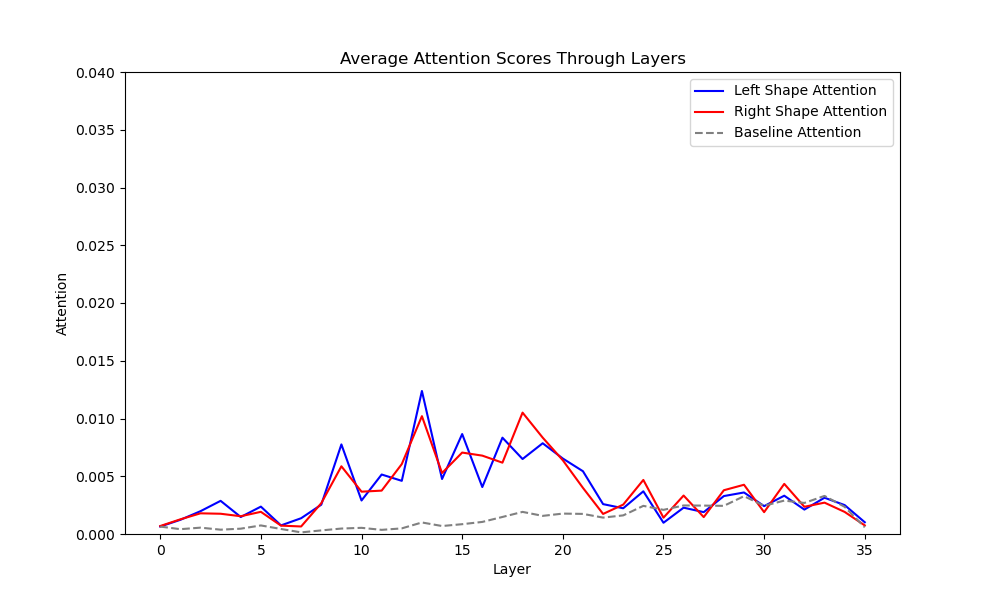
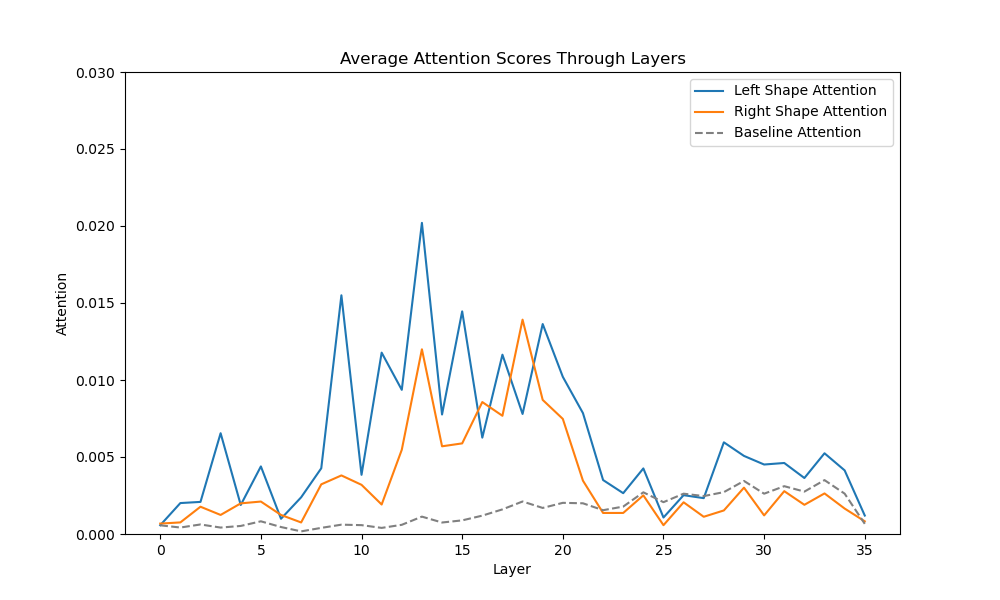
add graph gen files

diff --git a/gen_4_object_graphs.py b/gen_4_object_graphs.py
@@ -1,0 +1,143 @@
+from plotter2 import Plotter
+import numpy as np
+import matplotlib.pyplot as plt
+import torch
+from transformers import AutoProcessor, LlavaForConditionalGeneration, InternVLForConditionalGeneration
+
+def load_model(model_name):
+
+    device = "cuda" if torch.cuda.is_available() else "cpu"
+    global _loaded_models
+    if '_loaded_models' not in globals():
+        _loaded_models = {}
+
+    if model_name == "internvl":
+        model_id = "OpenGVLab/InternVL3_5-4B-HF"
+        if model_id not in _loaded_models:
+            print("Loading model and processor...")
+            processor = AutoProcessor.from_pretrained(model_id)
+            model = InternVLForConditionalGeneration.from_pretrained(
+                model_id, torch_dtype=torch.float16).to(device)
+            _loaded_models[model_id] = (processor, model)
+        else:
+            print("Reusing cached model and processor.")
+            processor, model = _loaded_models[model_id]
+    
+    elif model_name == "llava":
+        model_id = "llava-hf/llava-1.5-7b-hf"
+        if model_id not in _loaded_models:
+            print("Loading model and processor...")
+            processor = AutoProcessor.from_pretrained(model_id)
+            model = LlavaForConditionalGeneration.from_pretrained(
+                model_id, torch_dtype=torch.float16).to(device)
+            _loaded_models[model_id] = (processor, model)
+        else:
+            print("Reusing cached model and processor.")
+            processor, model = _loaded_models[model_id]
+
+    return processor, model
+
+def four_position(model_name, pos, colour=None):
+   
+    processor, model = load_model(model_name)
+
+    count = 0
+    item1_attn = []
+    item2_attn = []
+    item3_attn = []
+    item4_attn = []
+    baseline_attentions = []
+    for i in range(100):
+        image_path = f"4_shapes_same_dataset_1000/images/image_{i:04d}.png"
+        plotter = Plotter(image_path)
+        top_left_colour = plotter.get_shape_by_position('top_left').colour
+        top_right_colour = plotter.get_shape_by_position('top_right').colour
+        bottom_left_colour = plotter.get_shape_by_position('bottom_left').colour
+        bottom_right_colour = plotter.get_shape_by_position('bottom_right').colour
+        plotter.set_model(model, processor)
+
+        if pos == 'top_left' or pos == 'neg_top_left':
+            target_colour = top_left_colour
+        elif pos == 'top_right' or pos == 'neg_top_right':
+            target_colour = top_right_colour
+        elif pos == 'bottom_left' or pos == 'neg_bottom_left':
+            target_colour = bottom_left_colour
+        elif pos == 'bottom_right' or pos == 'neg_bottom_right':
+            target_colour = bottom_right_colour
+       
+
+        if target_colour == colour or colour is None:
+
+            if pos == 'top_left':
+                plotter.get_outputs(f"The figure is {top_left_colour}")
+            elif pos == 'top_right':
+                plotter.get_outputs(f"The figure is {top_right_colour}")
+            elif pos == 'bottom_left':
+                plotter.get_outputs(f"The figure is {bottom_left_colour}")
+            elif pos == 'bottom_right':
+                plotter.get_outputs(f"The figure is {bottom_right_colour}")
+            elif pos == 'neg_top_left':
+                plotter.get_outputs(f"The figure is not {top_left_colour}")
+            elif pos == 'neg_top_right':
+                plotter.get_outputs(f"The figure is not {top_right_colour}")
+            elif pos == 'neg_bottom_left':
+                plotter.get_outputs(f"The figure is not {bottom_left_colour}")
+            elif pos == 'neg_bottom_right':
+                plotter.get_outputs(f"The figure is not {bottom_right_colour}")
+
+            print("outputs:", plotter.print_output())
+            bbox_attentions, baseline_attn = plotter.plot_attention_through_layers()
+            item1_attn.append(bbox_attentions[top_left_colour])
+            item2_attn.append(bbox_attentions[top_right_colour])
+            item3_attn.append(bbox_attentions[bottom_left_colour])
+            item4_attn.append(bbox_attentions[bottom_right_colour])
+            baseline_attentions.append(baseline_attn)
+            count += 1
+
+    print("finished processing images, now plotting averages...")
+
+    # plot average attention across items
+    avg_item1_attn = np.mean(np.array(item1_attn), axis=0)
+    avg_item2_attn = np.mean(np.array(item2_attn), axis=0)
+    avg_item3_attn = np.mean(np.array(item3_attn), axis=0)
+    avg_item4_attn = np.mean(np.array(item4_attn), axis=0)
+    avg_baseline_attn = np.mean(np.array(baseline_attentions), axis=0)
+    std_item1_attn = np.std(np.array(item1_attn), axis=0)
+    std_item2_attn = np.std(np.array(item2_attn), axis=0)
+    layers = list(range(36))
+    plt.figure(figsize=(10, 6))
+    plt.plot(layers, avg_item1_attn, label='Top Left Shape Attention')
+    plt.plot(layers, avg_item2_attn, label='Top Right Shape Attention')
+    plt.plot(layers, avg_item3_attn, label='Bottom Left Shape Attention')
+    plt.plot(layers, avg_item4_attn, label='Bottom Right Shape Attention')
+    plt.plot(layers, avg_baseline_attn, label='Baseline Attention', color='gray', linestyle='--')
+    # plot confidence intervals
+    #plt.fill_between(layers, avg_item1_attn - std_item1_attn, avg_item1_attn + std_item1_attn, color='blue', alpha=0.2)
+    #plt.fill_between(layers, avg_item2_attn - std_item2_attn, avg_item2_attn + std_item2_attn, color='red', alpha=0.2)    
+    plt.xlabel('Layer')
+    plt.ylabel('Attention')
+    plt.title('Average Attention Scores Through Layers')
+    plt.legend()
+    # fix y axis limit
+    plt.ylim(0, 0.03)
+    plt.savefig(f'intern_plots/{pos}_{colour+"_" if colour else ""}all.png')
+    print(f"Processed {count} images matching criteria.")
+
+
+if __name__ == "__main__":
+    four_position('internvl', 'top_left')
+    four_position('internvl', 'top_right')
+    four_position('internvl', 'bottom_left')
+    four_position('internvl', 'bottom_right')
+    four_position('internvl', 'neg_top_left')
+    four_position('internvl', 'neg_top_right')
+    four_position('internvl', 'neg_bottom_left')
+    four_position('internvl', 'neg_bottom_right')
+    # four_position('internvl', 'top_left', 'red')
+    # four_position('internvl', 'top_right', 'red')
+    # four_position('internvl', 'bottom_left', 'red')
+    # four_position('internvl', 'bottom_right', 'red')
+    # four_position('internvl', 'neg_top_left', 'red')
+    # four_position('internvl', 'neg_top_right', 'red')
+    # four_position('internvl', 'neg_bottom_left', 'red')
+    # four_position('internvl', 'neg_bottom_right', 'red')

diff --git a/gen_2_object_graphs.py b/gen_2_object_graphs.py
@@ -1,0 +1,123 @@
+from plotter2 import Plotter
+import numpy as np
+import matplotlib.pyplot as plt
+import torch
+from transformers import AutoProcessor, LlavaForConditionalGeneration, InternVLForConditionalGeneration
+
+def load_model(model_name):
+
+    device = "cuda" if torch.cuda.is_available() else "cpu"
+    global _loaded_models
+    if '_loaded_models' not in globals():
+        _loaded_models = {}
+
+    if model_name == "internvl":
+        model_id = "OpenGVLab/InternVL3_5-4B-HF"
+        if model_id not in _loaded_models:
+            print("Loading model and processor...")
+            processor = AutoProcessor.from_pretrained(model_id)
+            model = InternVLForConditionalGeneration.from_pretrained(
+                model_id, torch_dtype=torch.float16).to(device)
+            _loaded_models[model_id] = (processor, model)
+        else:
+            print("Reusing cached model and processor.")
+            processor, model = _loaded_models[model_id]
+    
+    elif model_name == "llava":
+        model_id = "llava-hf/llava-1.5-7b-hf"
+        if model_id not in _loaded_models:
+            print("Loading model and processor...")
+            processor = AutoProcessor.from_pretrained(model_id)
+            model = LlavaForConditionalGeneration.from_pretrained(
+                model_id, torch_dtype=torch.float16).to(device)
+            _loaded_models[model_id] = (processor, model)
+        else:
+            print("Reusing cached model and processor.")
+            processor, model = _loaded_models[model_id]
+
+    return processor, model
+
+def four_position(model_name, pos, colour=None):
+   
+    processor, model = load_model(model_name)
+
+    count = 0
+    item1_attn = []
+    item2_attn = []
+    baseline_attentions = []
+    for i in range(100):
+        image_path = f"2d_dataset_fixed_positions_1000/images/image_{i:04d}.png"
+        plotter = Plotter(image_path)
+        left_colour = plotter.get_left_shapes()[0].colour
+        right_colour = plotter.get_right_shapes()[0].colour
+        plotter.set_model(model, processor)
+
+        if pos == 'left' or pos == 'neg_left':
+            target_colour = left_colour
+        elif pos == 'right' or pos == 'neg_right':
+            target_colour = right_colour
+
+        if target_colour == colour or colour is None:
+
+            if pos == 'left':
+                plotter.get_outputs(f"The figure is {left_colour}")
+            elif pos == 'right':
+                plotter.get_outputs(f"The figure is {right_colour}")
+            elif pos == 'neg_left':
+                plotter.get_outputs(f"The figure is not {left_colour}")
+            elif pos == 'neg_right':
+                plotter.get_outputs(f"The figure is not {right_colour}")
+
+            print("outputs:", plotter.print_output())
+            bbox_attentions, baseline_attn = plotter.plot_attention_through_layers()
+            item1_attn.append(bbox_attentions[left_colour])
+            item2_attn.append(bbox_attentions[right_colour])
+            baseline_attentions.append(baseline_attn)
+            count += 1
+
+
+    # plot average attention across items
+    avg_item1_attn = np.mean(np.array(item1_attn), axis=0)
+    avg_item2_attn = np.mean(np.array(item2_attn), axis=0)
+    avg_baseline_attn = np.mean(np.array(baseline_attentions), axis=0)
+    std_item1_attn = np.std(np.array(item1_attn), axis=0)
+    std_item2_attn = np.std(np.array(item2_attn), axis=0)
+    layers = list(range(36))
+    plt.figure(figsize=(10, 6))
+    plt.plot(layers, avg_item1_attn, label='Left Shape Attention')
+    plt.plot(layers, avg_item2_attn, label='Right Shape Attention')
+    plt.plot(layers, avg_baseline_attn, label='Baseline Attention', color='gray', linestyle='--')
+    # plot confidence intervals
+    #plt.fill_between(layers, avg_item1_attn - std_item1_attn, avg_item1_attn + std_item1_attn, color='blue', alpha=0.2)
+    #plt.fill_between(layers, avg_item2_attn - std_item2_attn, avg_item2_attn + std_item2_attn, color='red', alpha=0.2)    
+    plt.xlabel('Layer')
+    plt.ylabel('Attention')
+    plt.title('Average Attention Scores Through Layers')
+    plt.legend()
+    # fix y axis limit
+    plt.ylim(0, 0.03)
+    plt.savefig(f'intern_plots/{pos}_{colour+"_" if colour else ""}all.png')
+    print(f"Processed {count} images matching criteria.")
+
+
+if __name__ == "__main__":
+    # four_position('internvl', 'left')
+    # four_position('internvl', 'right')
+    # four_position('internvl', 'neg_left')
+    # four_position('internvl', 'neg_right')
+    four_position('internvl', 'left', 'red')
+    four_position('internvl', 'right', 'red')
+    four_position('internvl', 'neg_left', 'red')
+    four_position('internvl', 'neg_right', 'red')
+    four_position('internvl', 'left', 'blue')
+    four_position('internvl', 'right', 'blue')
+    four_position('internvl', 'neg_left', 'blue')
+    four_position('internvl', 'neg_right', 'blue')
+    four_position('internvl', 'left', 'green')
+    four_position('internvl', 'right', 'green')
+    four_position('internvl', 'neg_left', 'green')
+    four_position('internvl', 'neg_right', 'green')
+    four_position('internvl', 'left', 'yellow')
+    four_position('internvl', 'right', 'yellow')
+    four_position('internvl', 'neg_left', 'yellow')
+    four_position('internvl', 'neg_right', 'yellow')

diff --git a/test.py b/test.py
@@ -5,7 +5,7 @@ import torch
 from transformers import AutoProcessor, LlavaForConditionalGeneration, InternVLForConditionalGeneration
 
 
-def four_position(pos, colour):
+def four_position(pos, colour=None):
     # device = "cuda" if torch.cuda.is_available() else "cpu"
     # global _loaded_models
     # if '_loaded_models' not in globals():
@@ -38,11 +38,11 @@ def four_position(pos, colour):
         print("Reusing cached model and processor.")
         processor, model = _loaded_models[model_id]
 
-
+    count = 0
     item1_attn = []
     item2_attn = []
     baseline_attentions = []
-    for i in range(1000):
+    for i in range(100):
         image_path = f"2d_dataset_fixed_positions_1000/images/image_{i:04d}.png"
         plotter = Plotter(image_path)
         left_colour = plotter.get_left_shapes()[0].colour
@@ -54,7 +54,7 @@ def four_position(pos, colour):
         elif pos == 'right' or pos == 'neg_right':
             target_colour = right_colour
 
-        if target_colour == colour:
+        if target_colour == colour or colour is None:
 
             if pos == 'left':
                 plotter.get_outputs(f"The figure is {left_colour}")
@@ -70,6 +70,7 @@ def four_position(pos, colour):
             item1_attn.append(bbox_attentions[left_colour])
             item2_attn.append(bbox_attentions[right_colour])
             baseline_attentions.append(baseline_attn)
+            count += 1
 
 
     # plot average attention across items
@@ -80,8 +81,8 @@ def four_position(pos, colour):
     std_item2_attn = np.std(np.array(item2_attn), axis=0)
     layers = list(range(36))
     plt.figure(figsize=(10, 6))
-    plt.plot(layers, avg_item1_attn, label='Left Shape Attention', color='blue')
-    plt.plot(layers, avg_item2_attn, label='Right Shape Attention', color='red')
+    plt.plot(layers, avg_item1_attn, label='Left Shape Attention')
+    plt.plot(layers, avg_item2_attn, label='Right Shape Attention')
     plt.plot(layers, avg_baseline_attn, label='Baseline Attention', color='gray', linestyle='--')
     # plot confidence intervals
     #plt.fill_between(layers, avg_item1_attn - std_item1_attn, avg_item1_attn + std_item1_attn, color='blue', alpha=0.2)
@@ -91,8 +92,9 @@ def four_position(pos, colour):
     plt.title('Average Attention Scores Through Layers')
     plt.legend()
     # fix y axis limit
-    plt.ylim(0, 0.04)
-    plt.savefig(f'intern_colour_plots/{pos}_{colour}all.png')
+    plt.ylim(0, 0.03)
+    plt.savefig(f'intern_plots/{pos}_{colour if colour else ""}_all.png')
+    print(f"Processed {count} images matching criteria.")
 
     # image_path = "4_shapes_same_dataset_1000/images/image_0000.png"
 
@@ -190,10 +192,14 @@ if __name__ == "__main__":
 #     four_position('bottom_left')
 #     four_position('bottom_right')
     #four_position('left', 'green')
-    four_position('left', 'red')
-    four_position('left', 'blue')
-    four_position('left', 'yellow')
-    four_position('right', 'green')
-    four_position('right', 'red')
-    four_position('right', 'blue')
-    four_position('right', 'yellow')
+    # four_position('left', 'red')
+    # four_position('left', 'blue')
+    # four_position('left', 'yellow')
+    # four_position('right', 'green')
+    # four_position('right', 'red')
+    # four_position('right', 'blue')
+    # four_position('right', 'yellow')
+    four_position('left')
+    four_position('right')
+    four_position('neg_left')
+    four_position('neg_right')

diff --git a/plotter2.py b/plotter2.py
@@ -259,9 +259,6 @@ class Plotter:
         else:
             matrix = self.get_matrix_for_layer(layer_idx)
 
-
-        print("full matrix element:")
-        print(matrix[53][51])
         #print("Attention matrix shape:", matrix.shape)
         # plot matrix
         figure = plt.figure(figsize=(8, 8))
